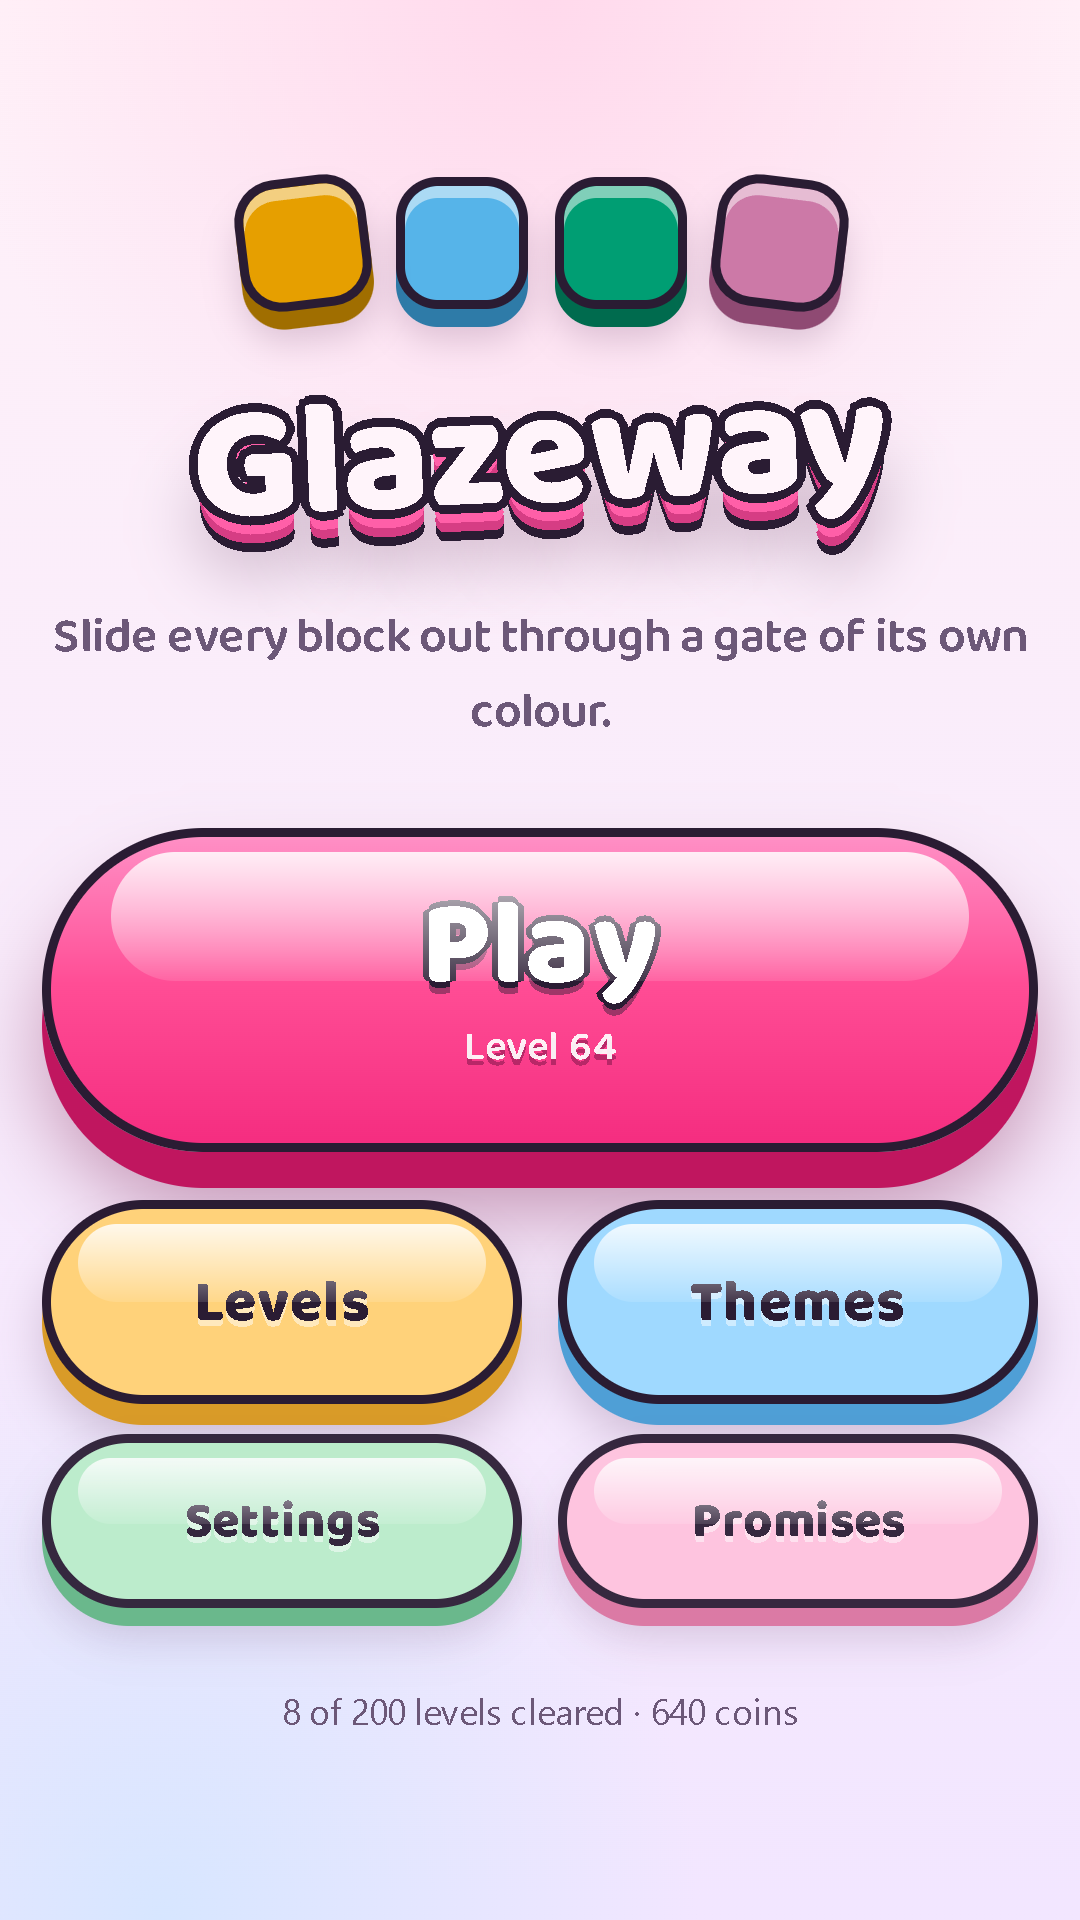
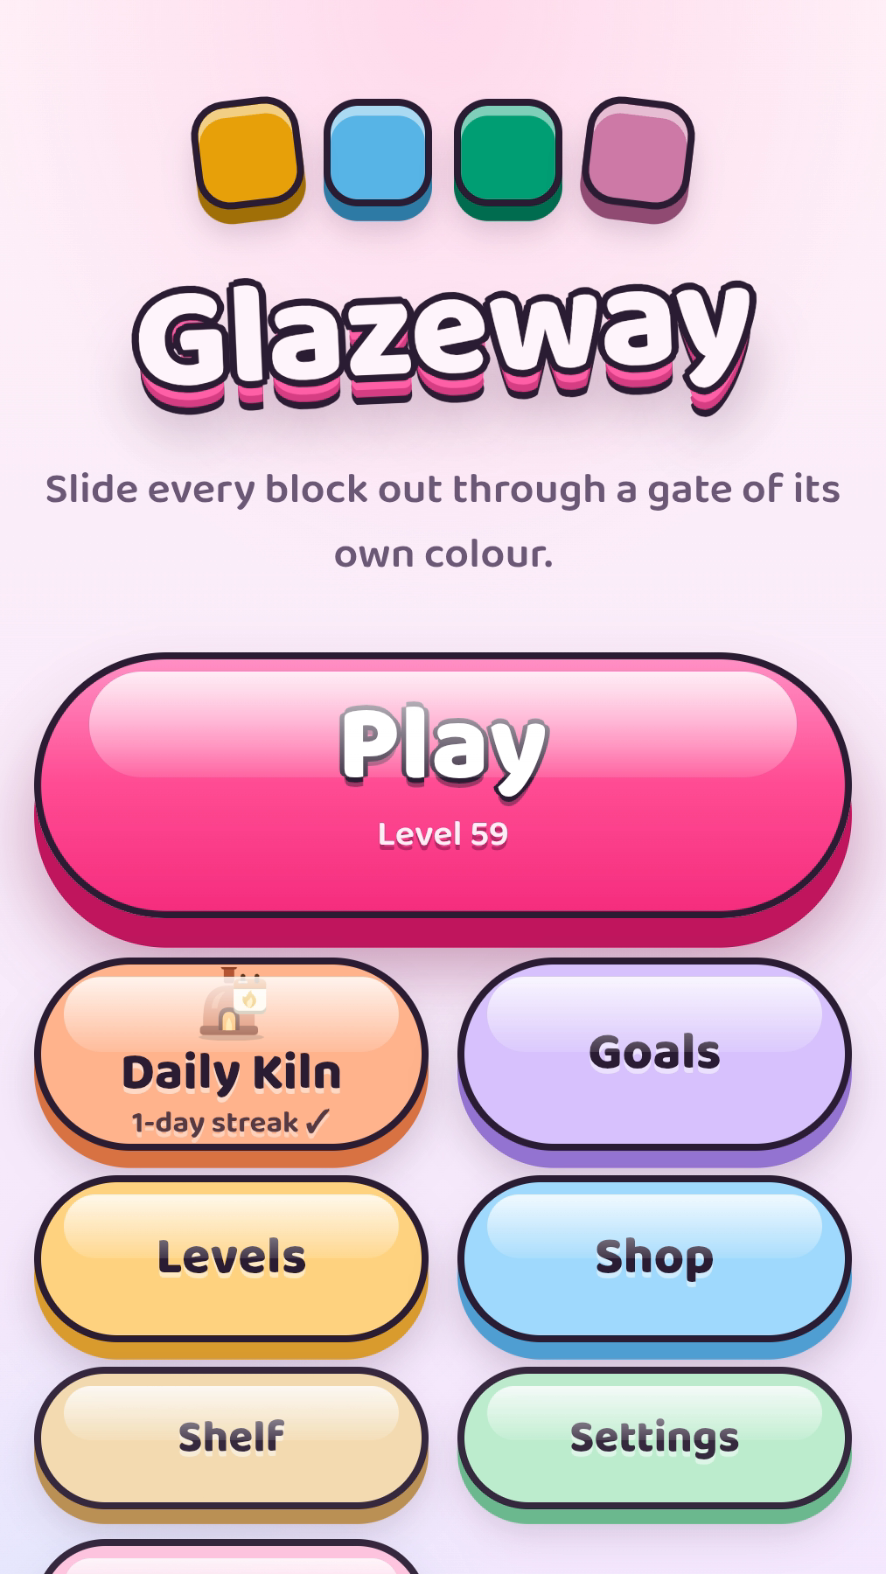
Store screenshots for 1.1.0, captured from the phone
Eight 9:16 shots of the real game: menu, a board with a friend, a chapter
map, the Daily Kiln, the daily gift, the Friends shop, the pottery shelf and
the promises. scripts/phone-screenshots.mjs makes them over adb.

diff --git a/store/LISTING.md b/store/LISTING.md
@@ -128,7 +128,7 @@ board, friendlier music, and a Levels button on the win screen.
 | --- | --- | --- |
 | App icon | 512x512 PNG, no transparency | `store/icon-512.png` |
 | Feature graphic | 1024x500 PNG | `store/feature-graphic.png` |
-| Phone screenshots | 2-8, 1080x1920 | `store/screenshot-*.png` (6 supplied) |
+| Phone screenshots | 2-8, 9:16 | `store/screenshot-*.png` (8 supplied, 886x1574) |
 
 Regenerate all of them with:
 
@@ -137,3 +137,8 @@ npm run build
 node scripts/make-icons.ts
 node scripts/make-store-assets.mjs
 ```
+
+The 1.1.0 screenshots were captured from the game on a phone instead, so
+they show real progress, friends and art: see the notes at the top of
+`scripts/phone-screenshots.mjs`. `make-store-assets.mjs` still makes the
+feature graphic, but its screenshot list is the old 1.0 set.

diff --git a/docs/STATUS.md b/docs/STATUS.md
@@ -126,7 +126,8 @@ is in [DESIGN.md](./DESIGN.md). The research that picked this game is in
 - Release signing reads from `android/keystore.properties`, which is
   git-ignored along with the keystore itself.
 - `store/` holds the listing copy, the privacy policy, the 512px icon, the
-  1024x500 feature graphic and six 1080x1920 screenshots — all regenerable.
+  1024x500 feature graphic and eight 9:16 phone screenshots (1.1.0, captured
+  from a phone with `scripts/phone-screenshots.mjs`) — all regenerable.
 
 ## How far the laptop toolchain got
 

diff --git a/docs/PUBLISHING.md b/docs/PUBLISHING.md
@@ -240,8 +240,8 @@ Upload the graphics from `store/`:
 
 - `icon-512.png` — app icon
 - `feature-graphic.png` — feature graphic
-- `screenshot-1-menu.png` through `screenshot-6-clay-theme.png` — phone
-  screenshots
+- `screenshot-1-menu.png` through `screenshot-8-promises.png` — phone
+  screenshots (upload them in number order)
 
 ## Step 9 — The closed test (the two-week part)
 
